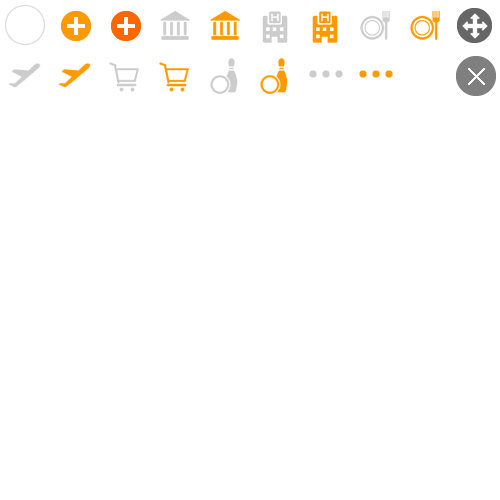
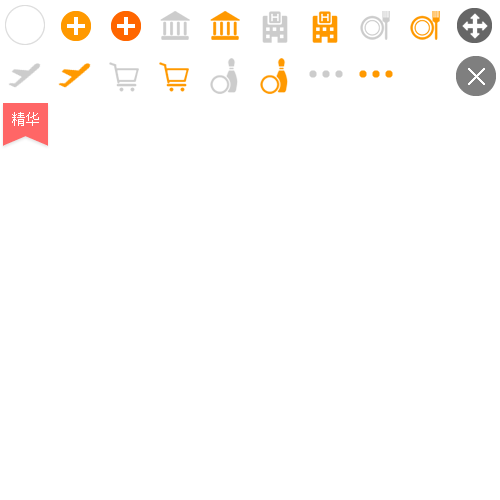
step_5

Changed region(s): [[0.0, 0.18, 0.12, 0.3]]

diff --git a/statics/css/tricp.css b/statics/css/tricp.css
@@ -163,7 +163,7 @@ body { scrollbar-arrow-color: #fff; /*图6,三角箭头的颜色*/ scrollbar-fac
 .userAvatar { float: left; width: 85px; height: 85px; padding: 3px; background: #ffffff; border-radius: 50%; overflow: hidden; border: 1px solid #dddddd; }
 .userAvatar img { border-radius: 50%; }
 
-.t_editingTitle { width: 310px; height: 23px; padding: 5px; padding-right: 40px; line-height: 23px; border: 1px solid #ff9900; outline: none; margin-left: 10px; }
+.t_editingTitle { width: 310px; height: 23px; padding: 5px; padding-right: 40px; line-height: 23px; border: 1px solid #ff9900; outline: none; margin-left: 10px; display: none; }
 
 .tricpTitle { float: left; height: 85px; margin: 0 10px; line-height: 85px; font-family: "微软雅黑"; font-size: 24px; color: #333333; }
 
@@ -399,6 +399,55 @@ body { scrollbar-arrow-color: #fff; /*图6,三角箭头的颜色*/ scrollbar-fac
 .t_save_eassy.dis_link:hover { background: #C9C9C9; }
 
 .icon_saveEssay { background-position: -75px -25px; }
+
+.tl_topNavBox { width: 100%; height: auto; background: #ffffff; border-bottom: 1px solid #dddddd; -webkit-box-shadow: 0px 1px 5px rgba(0, 0, 0, 0.1); -moz-box-shadow: 0px 1px 5px rgba(0, 0, 0, 0.1); -ms-box-shadow: 0px 1px 5px rgba(0, 0, 0, 0.1); -o-box-shadow: 0px 1px 5px rgba(0, 0, 0, 0.1); box-shadow: 0px 1px 5px rgba(0, 0, 0, 0.1); }
+
+.tl_topNavMain { width: 1200px; margin: 0 auto; }
+
+.tl_topNav { height: 37px; border-bottom: 1px solid #dddddd; }
+.tl_topNav p { height: 37px; line-height: 37px; }
+.tl_topNav p a { text-decoration: none; color: #999999; margin-right: 5px; }
+.tl_topNav p a:hover { text-decoration: underline; color: #df1078; }
+.tl_topNav p .useLink { color: #666666; }
+.tl_topNav div { height: 37px; line-height: 37px; }
+.tl_topNav div a { color: #df1078; font-family: "微软雅黑"; font-size: 14px; margin: 0 5px 0 10px; }
+
+.tl_userInfo { position: relative; padding: 20px 0px; }
+.tl_userInfo dl { overflow: hidden; }
+.tl_userInfo dt { float: left; width: 170px; padding-left: 70px; }
+.tl_userInfo dt div { width: 84px; text-align: center; height: 84px; overflow: hidden; border: 1px solid #dddddd; padding: 4px; border-radius: 50%; }
+.tl_userInfo dt div img { border-radius: 50%; }
+.tl_userInfo dd { float: left; position: relative; margin-top: 10px; }
+.tl_userInfo dd .title { font-size: 24px; font-family: "微软雅黑"; color: #333333; margin-right: 10px; font-weight: normal; }
+.tl_userInfo dd .tl_tag { padding: 3px 8px; border: 1px solid #ff9900; font-size: 12px; color: #ff9900; margin-right: 5px; border-radius: 3px; cursor: default; }
+.tl_userInfo dd a { margin-left: 50px; color: #0099cc; }
+.tl_userInfo dd a:hover { color: #ff9900; }
+.tl_userInfo dd a:hover .icon_modifyTitle { background-position: -475px -2px; }
+.tl_userInfo dd p { color: #666666; }
+.tl_userInfo dd p span { color: #999999; }
+.tl_userInfo dd p span em { padding: 0 10px; }
+.tl_userInfo dd p strong { font-weight: normal; }
+
+.tl_shareCollection { position: absolute; top: 20px; right: 0px; overflow: hidden; }
+.tl_shareCollection a { display: block; float: left; padding: 0 15px; border-right: 1px solid #dddddd; text-align: center; height: 24px; line-height: 24px; color: #999999; }
+.tl_shareCollection a:hover { color: #ff9900; text-decoration: none; }
+.tl_shareCollection a:hover .icon_zan { background-position: -200px -77px; }
+.tl_shareCollection a:hover .icon_commit { background-position: -250px -77px; }
+.tl_shareCollection a:hover .icon_share { background-position: -300px -77px; }
+.tl_shareCollection a:hover .icon_favorites { background-position: -350px -77px; }
+.tl_shareCollection .favorites { border-right: 0px; }
+
+.icon_zan { background-position: -175px -77px; }
+
+.icon_commit { background-position: -225px -77px; }
+
+.icon_share { background-position: -275px -77px; }
+
+.icon_favorites { background-position: -325px -77px; }
+
+.icon_travels { background-position: -225px -25px; }
+
+.iconEssence { width: 50px; height: 50px; position: absolute; top: 0px; left: -64px; background-position: 0px -100px; }
 
 .mt20 { margin-top: 20px; }
 

diff --git a/statics/css/tricp.scss b/statics/css/tricp.scss
@@ -705,6 +705,7 @@ scrollbar-base-color:#E3E3E3; /*滚动条的基本颜色*/
 	border: 1px solid $orange;
 	outline: none;
 	margin-left: 10px;
+	display: none;
 	
 }
 
@@ -1686,6 +1687,186 @@ scrollbar-base-color:#E3E3E3; /*滚动条的基本颜色*/
 }
 .icon_saveEssay{
 	background-position: -75px -25px;
+}
+
+
+
+
+//查看页面样式
+
+//头部导航
+.tl_topNavBox{
+	width: 100%;
+	height: auto;
+	background: #ffffff;
+	border-bottom: 1px solid $borderColor;
+	-webkit-box-shadow: 0px 1px 5px rgba(0,0,0,0.1);
+	-moz-box-shadow: 0px 1px 5px rgba(0,0,0,0.1);
+	-ms-box-shadow: 0px 1px 5px rgba(0,0,0,0.1);
+	-o-box-shadow: 0px 1px 5px rgba(0,0,0,0.1);
+	box-shadow: 0px 1px 5px rgba(0,0,0,0.1);
+}
+.tl_topNavMain{
+	width: 1200px;
+	margin: 0 auto;
+}
+.tl_topNav{
+	height: 37px;
+	border-bottom: 1px solid $borderColor;
+	p{
+		height: 37px;
+		line-height: 37px;
+		a{
+			text-decoration: none;
+			color: $txtGray;
+			margin-right: 5px;
+			&:hover{
+				text-decoration: underline;
+				color: $lvmamaColor;
+			}
+		}
+		.useLink{
+			color: $txtNormal;
+		}
+	}
+	div{
+		height: 37px;
+		line-height: 37px;
+		a{
+			color: $lvmamaColor;
+			font-family: "微软雅黑";
+			font-size: 14px;
+			margin: 0 5px 0 10px;
+		}
+	}
+}
+.tl_userInfo{
+	position: relative;
+	padding: 20px 0px;
+	dl{
+		overflow: hidden;
+	}
+	dt{
+		float: left;
+		width: 170px;
+		padding-left: 70px;
+		div{
+			width: 84px;
+			text-align: center;
+			height: 84px;
+			overflow: hidden;
+			border: 1px solid $borderColor;
+			padding: 4px;
+			border-radius: 50%;
+			img{
+				border-radius: 50%;
+			}
+		}
+	}
+	dd{
+		float: left;
+		position: relative;
+		margin-top: 10px;
+		.title{
+			font-size: 24px;
+			font-family: "微软雅黑";
+			color: $txtBlack;
+			margin-right: 10px;	
+			font-weight: normal;		
+		}
+		.tl_tag{
+			padding: 3px 8px;
+			border: 1px solid $orange;
+			font-size: 12px;
+			color: $orange;
+			margin-right: 5px;
+			border-radius: 3px;
+			cursor: default;
+		}
+		a{
+			margin-left: 50px;
+			color: $txtBlue;
+			&:hover{
+				color: $orange;
+				.icon_modifyTitle{
+					background-position: -475px -2px;
+				}
+			}
+		}
+		p{
+			color: $txtNormal;
+			span{
+				color: $txtGray;
+				em{
+					padding: 0 10px;
+				}
+			}
+			strong{
+				font-weight: normal;
+			}
+		}
+	}
+}
+
+.tl_shareCollection{
+	position: absolute;
+	top: 20px;
+	right: 0px;
+	overflow: hidden;
+	a{
+		display: block;
+		float: left;
+		padding: 0 15px;
+		border-right: 1px solid $borderColor;
+		text-align: center;
+		height: 24px;
+		line-height: 24px;
+		color: $txtGray;
+		&:hover{
+			color: $orange;
+			text-decoration: none;
+			.icon_zan{
+				background-position: -200px -77px;
+			}
+			.icon_commit{
+				background-position: -250px -77px;
+			}
+			.icon_share{
+				background-position: -300px -77px;
+			}
+			.icon_favorites{
+				background-position: -350px -77px;
+			}
+		}
+	}
+	.favorites{
+		border-right: 0px;
+	}
+}
+
+.icon_zan{
+	background-position: -175px -77px;
+}
+.icon_commit{
+	background-position: -225px -77px;
+}
+.icon_share{
+	background-position: -275px -77px;
+}
+.icon_favorites{
+	background-position: -325px -77px;
+}
+
+.icon_travels{
+	background-position: -225px -25px;
+}
+.iconEssence{
+	width: 50px;
+	height: 50px;
+	position: absolute;
+	top: 0px;
+	left: -64px;
+	background-position: 0px -100px;
 }
 
 //修正样式

diff --git a/statics/js/edit.js b/statics/js/edit.js
@@ -363,14 +363,14 @@ $(function(){
 
 	$('.eassyTxt textarea').bind('input propertychange',function(ev){
 		var len = Math.ceil( getLength($(this).val())/2 );
-		if(len>0 && len<=300){
-			$(this).attr('data-success',1);
+		if(len<=300){
+			//$(this).attr('data-success',1);
 			$(this).siblings('a').removeClass('dis_link');
 			$(this).siblings('p').find('span').removeClass('error');
 			$(this).siblings('p').find('span').text(len);
 		}else{
 			$(this).siblings('a').addClass('dis_link');
-			$(this).attr('data-success',0);
+			//$(this).attr('data-success',0);
 			$(this).siblings('p').find('span').addClass('error');
 			$(this).siblings('p').find('span').text(len);
 		}
@@ -406,6 +406,52 @@ $(function(){
 		}
 		
 	});
+
+	//修改游记标题
+	$('.modifyTricpName').click(function(){
+		$(this).siblings('.tricpTitle').hide();
+		$(this).siblings('.t_editingTitle').show();
+	});
+	$('.t_editingTitle').bind('input propertychange',function(){
+		var len = Math.ceil( getLength( $(this).val() )/2 );
+		$(this).siblings('.leftTxt').show();
+		if(len>30){
+			$(this).parent().addClass('error');
+			$(this).siblings('.tricpTitle').attr('data-success',0);
+		}else{
+			$(this).parent().removeClass('error');
+			$(this).siblings('.tricpTitle').attr('data-success',1);
+		}
+		$(this).siblings('.leftTxt').find('span').text(len);
+	});
+	$('.t_editingTitle').blur(function(){
+		$(this).siblings('.leftTxt').hide();
+		$(this).siblings('.tricpTitle').text($(this).val()).show();
+		$(this).hide();
+	});
+
+
+
+
+	$('.publish').click(function(){
+		if($("*[data-success='0']").length){
+			//说明有内容没有填写正确
+			var arr = [];
+			for(var i=0; i< $("*[data-success='0']").length; i++){
+				
+			}
+		}else{
+			//提交数据
+			$.ajax({
+				url: '',
+			})
+		}
+	});
+	
+
+
+
+
 	
 	//日历部分选择日期
 	function selectDateCallback(){

diff --git a/tricp_look.php b/tricp_look.php
@@ -1,0 +1,36 @@
+<!doctype html>
+<html>
+<head>
+<meta charset="utf-8">
+<title>无标题文档</title>
+<link rel="stylesheet" href="http://s1.lvjs.com.cn/min/index.php?f=/styles/v6/header.css">
+<link rel="stylesheet" href="statics/css/tricp.css" type="text/css">
+<script src="http://pic.lvmama.com/min/index.php?f=js/new_v/jquery-1.7.2.min.js,/js/ui/lvmamaUI/lvmamaUI.js,/js/new_v/top/header-air_new.js"></script>
+<link rel="stylesheet" href="http://pic.lvmama.com/min/index.php?f=/styles/v5/modules/tags.css" type="text/css">
+</head>
+
+<body>
+<div style="width:100%; height:170px; background:#0CF; text-align:center; font-size:100px; line-height:170px; color:#fff;">网站公用头部，开发时去掉</div>
+<div class="tl_topNavBox">
+	<div class="tl_topNavMain">
+    	<div class="tl_topNav clearfix">
+        	<p class="fl"><a href="" class="useLink">旅游攻略首页</a>&gt;&nbsp;<a href="" class="useLink">非洲</a>&gt;&nbsp;<a href="">非洲</a></p>
+            <div class="fr"><a href=""><i class="icon icon_travels"></i>发游记</a></div>
+        </div>
+        <div class="tl_userInfo">
+        	<dl>
+            	<dt><div><img src="statics/image/userHeader.png" width="84" height="84"></div></dt>
+                <dd><i class="iconBig iconEssence"></i><strong class="title">雨中有只小阿狗</strong><span class="tl_tag">美图</span><span class="tl_tag">实用</span><span class="tl_tag">官方</span><a href="javascript:;"><i class="icon icon_modifyTitle"></i>修改</a></dd>
+                <dd><p><strong>from sina weibo</strong> 向左转一路向西(2398200492) <span>于<time>2013-08-10</time>发布<em>|</em>10天<em>|</em>和朋友出行<em>|</em>自由行<em>|</em>浏览<i>129241</i>次</span></p></dd>
+            </dl>
+            <div class="tl_shareCollection">
+            	<a href="javascript:;"><i class="icon icon_zan"></i>赞 324</a>
+                <a href="javascript:;"><i class="icon icon_commit"></i>评论 324</a>
+                <a href="javascript:;"><i class="icon icon_share"></i>分享 324</a>
+                <a href="javascript:;" class="favorites"><i class="icon icon_favorites"></i>收藏</a>
+            </div>
+        </div>
+    </div>
+</div>
+</body>
+</html>

diff --git a/tricp_edit.php b/tricp_edit.php
@@ -23,12 +23,12 @@
             </ul>
         </div>
         <div class="editMain">
-        	<div class="userHeader error">
+        	<div class="userHeader">
             	<div class="userAvatar"><img src="statics/image/userHeader.png" width="85" height="85"></div>
-                <p class="tricpTitle">雨中有只小阿狗</p>
-                <input type="text" class="t_editingTitle" style="display:none">
-                <div class="leftTxt"><span>80</span>/40</div>
-                <a href="javascript:;" class="modifyTitle"><i class="icon icon_modifyTitle"></i>修改</a>
+                <p class="tricpTitle" data-success='1'>雨中有只小阿狗</p>
+                <input type="text" class="t_editingTitle">
+                <div class="leftTxt"><span>0</span>/30</div>
+                <a href="javascript:;" class="modifyTitle modifyTricpName"><i class="icon icon_modifyTitle"></i>修改</a>
             </div>
             <div class="t_listBox mt20">
                 <div class="t_lineTag"><span></span>前言</div>
@@ -158,7 +158,7 @@
 <div class="t_dialog eassyBox">
 	<div class="t_dialog_border">
     	<div class="eassyTxt">
-        	<textarea data-success="0"></textarea>
+        	<textarea></textarea>
             <p class="eassyLeftTxt">已输入<span>0</span><em>/300</em>字</p>
             <a href="javascript:;" target="_self" class="t_save_eassy dis_link"><i class="icon icon_saveEssay"></i>保存随笔</a>
         </div>
